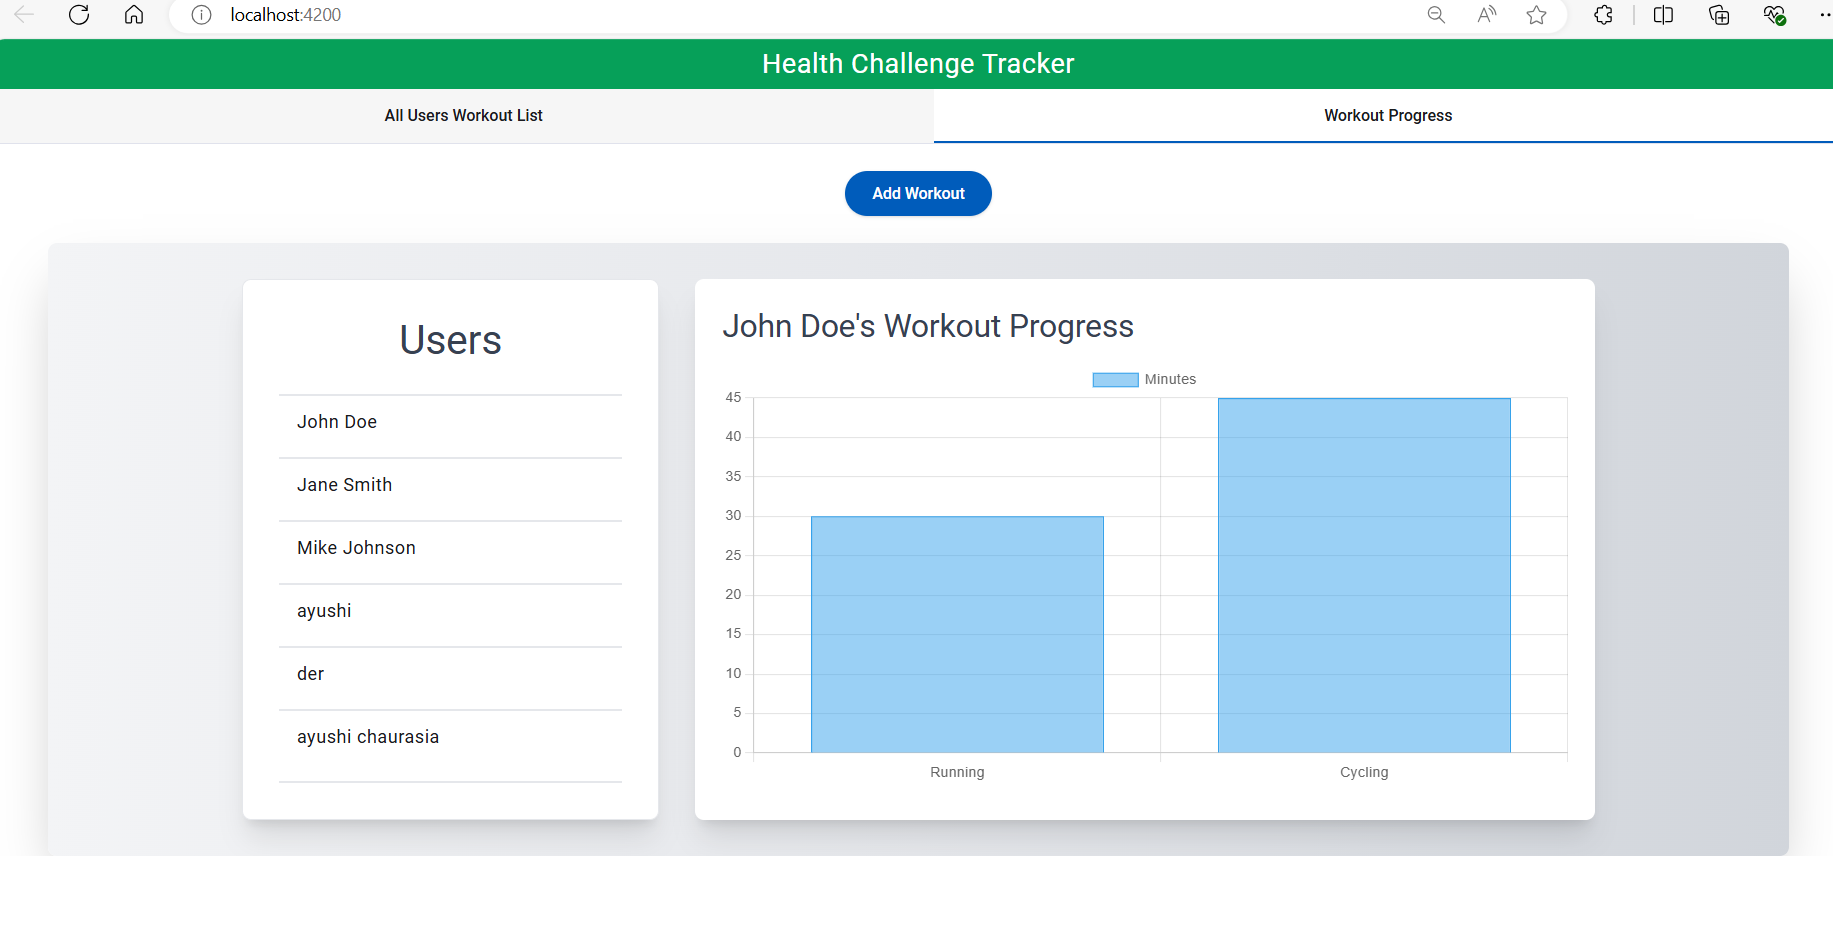
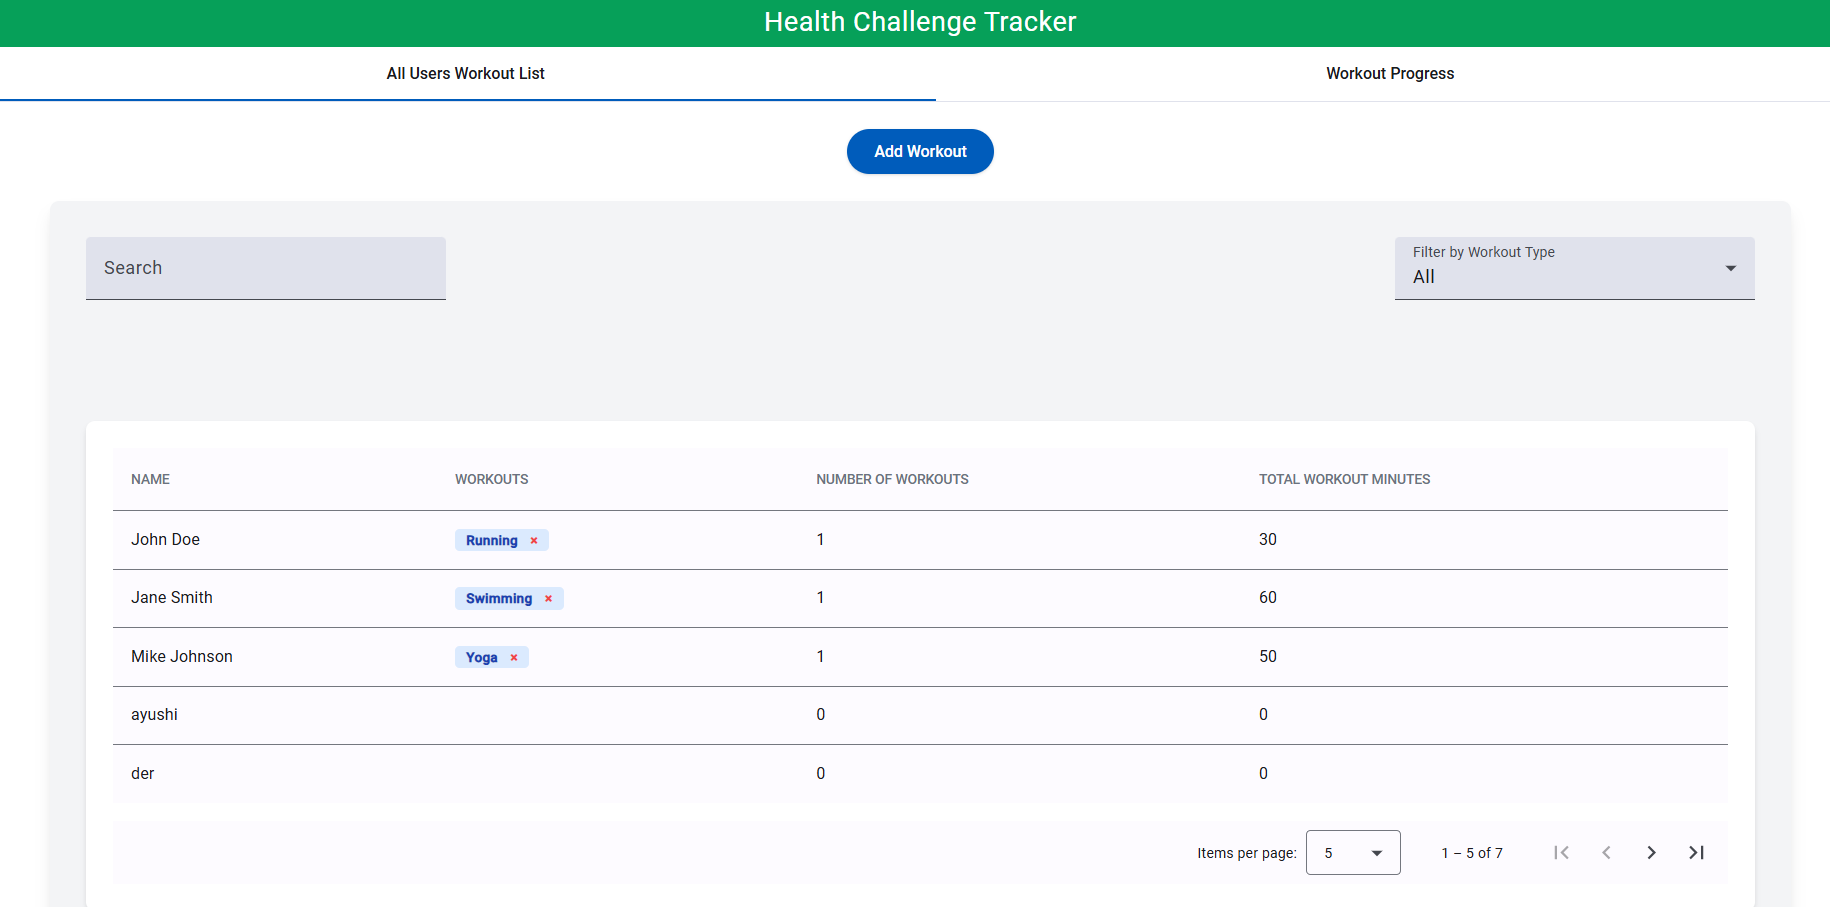
first commit

diff --git a/src/app/components/users/users.component.ts b/src/app/components/users/users.component.ts
@@ -1,13 +1,41 @@
-import { AfterViewInit, Component, OnInit, ViewChild } from '@angular/core';
-import { MatPaginator, MatPaginatorModule } from '@angular/material/paginator';
-import { MatInputModule } from '@angular/material/input';
-import { MatSelectModule, MatSelectChange } from '@angular/material/select';
-import { MatFormFieldModule } from '@angular/material/form-field';
-import { MatTableDataSource, MatTableModule } from '@angular/material/table';
-import { CommonModule } from '@angular/common';
 
-import { User } from '@/app/components/users/users.model';
-import { workoutOptions } from '@/app/components/add-user/add-user.component';
+
+
+
+import {
+  AfterViewInit,
+  Component,
+  OnInit,
+  ViewChild
+} from '@angular/core';
+import {
+  MatPaginator,
+  MatPaginatorModule
+} from '@angular/material/paginator';
+import {
+  MatInputModule
+} from '@angular/material/input';
+import {
+  MatSelectModule,
+  MatSelectChange
+} from '@angular/material/select';
+import {
+  MatFormFieldModule
+} from '@angular/material/form-field';
+import {
+  MatTableDataSource,
+  MatTableModule
+} from '@angular/material/table';
+import {
+  CommonModule
+} from '@angular/common';
+
+import {
+  User
+} from '@/app/components/users/users.model';
+import {
+  workoutOptions
+} from '@/app/components/add-user/add-user.component';
 
 @Component({
   selector: 'app-users',
@@ -33,8 +61,11 @@ export class UsersComponent implements OnInit, AfterViewInit {
     'totalWorkouts',
     'totalMinutes',
   ];
-  dataSource: MatTableDataSource<User> = new MatTableDataSource<User>();
-  workoutOptions = [{ value: 'all', viewValue: 'All' }, ...workoutOptions];
+  dataSource: MatTableDataSource < User > = new MatTableDataSource < User > ();
+  workoutOptions = [{
+    value: 'all',
+    viewValue: 'All'
+  }, ...workoutOptions];
   selectedWorkoutType: string = 'all';
   searchTerm: string = '';
 
@@ -88,6 +119,25 @@ export class UsersComponent implements OnInit, AfterViewInit {
       return matchesSearchTerm && matchesWorkoutType;
     };
   }
+
+  removeWorkout(userName: string, workoutIndex: number) {
+    const data = this.dataSource.data;
+    const user = data.find((item: User) => item.name === userName);
+
+    if (user) {
+      user.workouts.splice(workoutIndex, 1);
+
+      // Update totalWorkouts and totalMinutes
+      user.totalWorkouts = user.workouts.length;
+      user.totalMinutes = user.workouts.reduce((sum: number, workout: any) => sum + workout.minutes, 0);
+
+      // Update localStorage and dataSource
+      localStorage.setItem('workoutData', JSON.stringify(data));
+      this.dataSource.data = [...data];
+    }
+  }
 }
 
-export { User };
+export {
+  User
+};

diff --git a/src/app/components/users/users.component.html b/src/app/components/users/users.component.html
@@ -1,3 +1,8 @@
+
+
+
+
+
 <div class="lg:flex lg:flex-col lg:mx-12 mx-6 justify-center p-8 border-10 border-white gap-8 lg:space-y-8 space-y-8 bg-gray-100 rounded-lg shadow-lg">
   <div class="md:flex justify-between items-center mb-6">
     <mat-form-field class="w-full md:max-w-xs lg:w-1/3">
@@ -8,7 +13,6 @@
         placeholder="Enter name to search"
         class="search-input"
       />
- 
     </mat-form-field>
     <mat-form-field appearance="fill" class="w-full md:max-w-xs lg:w-1/3 mt-4 md:mt-0">
       <mat-label>Filter by Workout Type</mat-label>
@@ -41,7 +45,12 @@
               *ngFor="let workout of element.workouts; let i = index; let last = last"
               class="inline-block bg-blue-100 text-blue-800 text-xs font-semibold mr-2 px-2.5 py-0.5 rounded"
             >
-              {{ workout.type }}<span *ngIf="!last">,</span>
+              {{ workout.type }}
+              <span *ngIf="!last">,</span>
+              <button
+                (click)="removeWorkout(element.name, i)"
+                class="ml-2 text-red-500 hover:text-red-700"
+              >&times;</button>
             </span>
           </div>
         </td>
@@ -60,7 +69,6 @@
       <tr mat-header-row *matHeaderRowDef="displayedColumns" class="bg-gray-100"></tr>
       <tr mat-row *matRowDef="let row; columns: displayedColumns" class="bg-white hover:bg-gray-50"></tr>
     </table>
-
 
     <mat-paginator
       [pageSizeOptions]="[5, 10, 20]"
